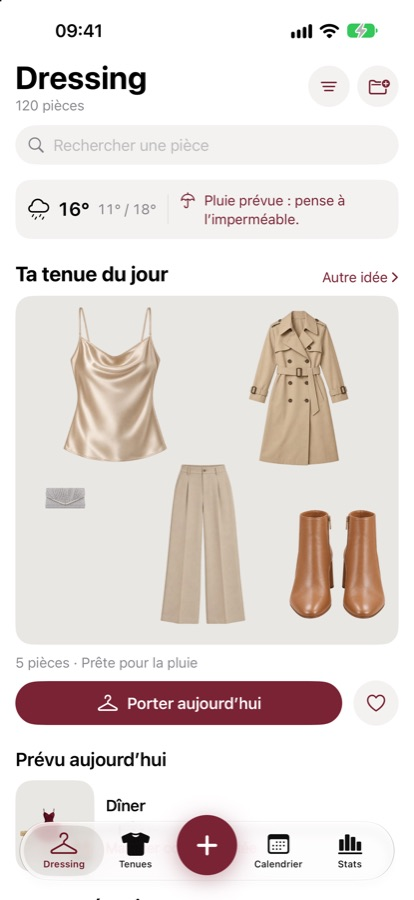
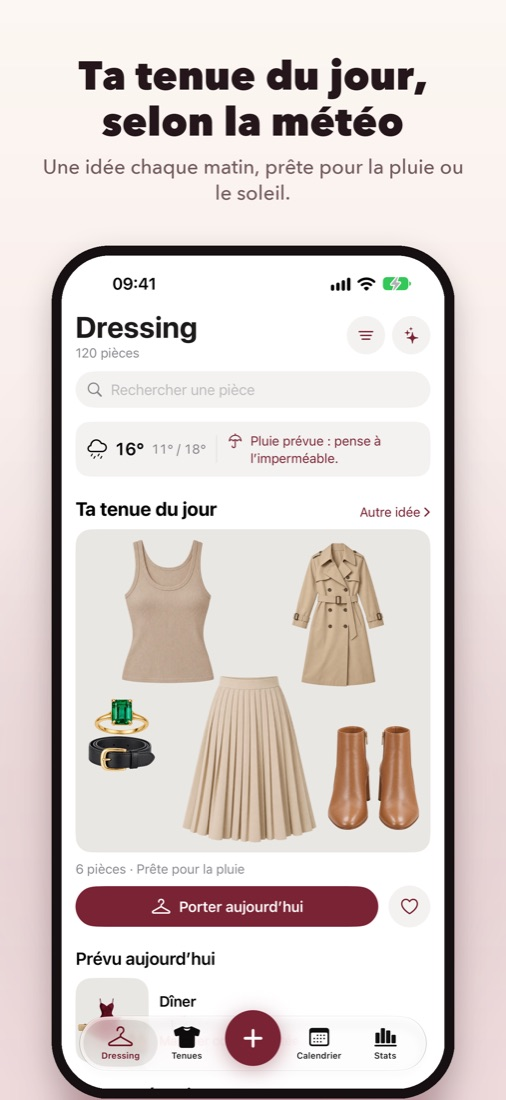
Mettre à jour le site : styliste IA, nouvelles captures, aide et confidentialité

diff --git a/index.html b/index.html
@@ -3,11 +3,11 @@
 <head>
 <meta charset="utf-8">
 <meta name="viewport" content="width=device-width, initial-scale=1, viewport-fit=cover">
-<title>InspyDressing – Ton dressing dans ton iPhone</title>
-<meta name="description" content="InspyDressing range ton dressing dans ton iPhone : tes vêtements en photo, des tenues selon la météo, un calendrier et des stats. Tes données restent sur ton iPhone.">
+<title>InspyDressing – Ton dressing et ta styliste IA</title>
+<meta name="description" content="InspyDressing range ton dressing dans ton iPhone : tes vêtements en photo, une styliste IA qui compose avec tes pièces, des tenues selon la météo. Tes données restent sur ton iPhone.">
 <meta property="og:title" content="InspyDressing">
-<meta property="og:description" content="Ton dressing dans ton iPhone : des tenues selon la météo, sans compte ni publicité.">
-<meta property="og:image" content="https://dombaumont.github.io/inspydressing/img/icone.png">
+<meta property="og:description" content="Ton dressing dans ton iPhone, avec une styliste IA qui compose avec tes vêtements. Sans compte ni publicité.">
+<meta property="og:image" content="https://dombaumont.github.io/inspydressing/img/02-styliste.jpg">
 <link rel="icon" href="img/icone.png">
 <link rel="apple-touch-icon" href="img/apple-touch-icon.png">
 <link rel="stylesheet" href="style.css">
@@ -23,25 +23,44 @@
     <img src="img/icone.png" alt="Icône d’InspyDressing">
     <div>
       <h1>Ton dressing dans ton iPhone.</h1>
-      <p class="lead">Photographie tes vêtements et tes bijoux, compose des tenues selon la météo, planifie ta semaine et redécouvre ce que tu ne portes plus.</p>
+      <p class="lead">Photographie tes vêtements et tes bijoux, laisse ta styliste composer avec tes pièces, planifie ta semaine selon la météo et redécouvre ce que tu ne portes plus.</p>
       <span class="badge">Bientôt sur l’App Store</span>
     </div>
   </header>
 
-  <div class="shots">
-    <img src="img/01-accueil.jpg" alt="Accueil : météo du jour et tenue du jour" loading="lazy">
-    <img src="img/03-composer.jpg" alt="Composer une tenue" loading="lazy">
-    <img src="img/05-tenue.jpg" alt="Une tenue enregistrée, avec partage et photo portée" loading="lazy">
-    <img src="img/08-stats.jpg" alt="Statistiques : pièces les plus portées et à redécouvrir" loading="lazy">
+  <div class="shots" role="list" aria-label="Captures de l’app">
+    <img role="listitem" src="img/01-accueil.jpg" alt="Ta tenue du jour, selon la météo" loading="lazy">
+    <img role="listitem" src="img/02-styliste.jpg" alt="Ta styliste IA avec tes vêtements" loading="lazy">
+    <img role="listitem" src="img/03-composer.jpg" alt="Une autre idée de tenue en secouant l’iPhone" loading="lazy">
+    <img role="listitem" src="img/05-options.jpg" alt="Options de la tenue : couleurs, bijoux, chapeau, sac" loading="lazy">
+    <img role="listitem" src="img/09-stats.jpg" alt="Redécouvre ton dressing : statistiques" loading="lazy">
+    <img role="listitem" src="img/10-fiche.jpg" alt="Chaque pièce en détail" loading="lazy">
   </div>
+
+  <section class="highlight">
+    <div>
+      <span class="tag">Nouveau</span>
+      <h2>Ta styliste IA, avec tes vêtements</h2>
+      <p>Pose-lui une question, joins une photo ou une pièce de ton dressing : elle répond avec ce que tu as vraiment.</p>
+      <ul>
+        <li><strong>En magasin</strong>, photographie un vêtement : elle compose une tenue avec tes pièces, te prévient si tu as déjà quelque chose de très proche, et te dit avec combien de pièces il irait.</li>
+        <li><strong>« Quelles chaussures avec ce pull ? »</strong> : trois propositions tirées de ton dressing, avec la raison de chacune.</li>
+        <li><strong>« Un pantalon noir va avec un haut rouge ? »</strong> : un avis clair, expliqué par tes règles de style.</li>
+      </ul>
+      <p class="small">Apple Intelligence l’aide à comprendre tes questions, sur ton iPhone. Ses réponses viennent de ton dressing et de tes règles : elle n’invente jamais de vêtement.</p>
+    </div>
+    <img src="img/02-styliste.jpg" alt="La styliste propose une tenue autour d’un pull photographié en magasin" loading="lazy">
+  </section>
 
   <h2>Ce que fait InspyDressing</h2>
   <div class="features">
-    <div class="feature"><h3>Tes pièces en photo</h3><p>Détourage automatique, couleurs reconnues, appareil photo guidé. Ou importe un vêtement acheté en ligne depuis la page de la boutique.</p></div>
-    <div class="feature"><h3>Des tenues selon la météo</h3><p>Une tenue du jour adaptée au temps qu’il fait, des options (couleurs, bijoux, chapeau, sac) et une nouvelle idée en secouant l’iPhone.</p></div>
-    <div class="feature"><h3>Calendrier et ressenti</h3><p>Planifie tes tenues avec la météo prévue, note ce que tu as porté et ce que tu en as pensé, ajoute une photo de toi.</p></div>
-    <div class="feature"><h3>Stats et redécouvertes</h3><p>Pièces les plus portées, coût par port, vêtements oubliés à remettre en avant, aide à la revente.</p></div>
-    <div class="feature"><h3>Entretien et rangement</h3><p>Composition et symboles d’entretien de chaque pièce, lieux de rangement (commode, penderie, grenier…).</p></div>
+    <div class="feature"><h3>Tes pièces en photo</h3><p>Appareil photo guidé, détourage automatique, couleurs reconnues. Ou importe un vêtement acheté en ligne depuis la page de la boutique.</p></div>
+    <div class="feature"><h3>Des tenues selon la météo</h3><p>Une tenue du jour adaptée au temps qu’il fait, et une nouvelle idée en secouant l’iPhone.</p></div>
+    <div class="feature"><h3>Tes règles de style</h3><p>Associations de couleurs, imprimés, volumes, chaussures… Une trentaine de règles à activer, désactiver ou ajuster selon ton goût.</p></div>
+    <div class="feature"><h3>Tes envies du jour</h3><p>Couleurs souhaitées ou à éviter, avec ou sans bijoux, chapeau ou sac.</p></div>
+    <div class="feature"><h3>Calendrier et ressenti</h3><p>Planifie tes tenues avec la météo prévue, note ce que tu as porté, ajoute une photo de toi, partage tes looks.</p></div>
+    <div class="feature"><h3>Stats et redécouvertes</h3><p>Pièces les plus portées, coût par port, vêtements oubliés, aide à la revente sur Vinted et ailleurs.</p></div>
+    <div class="feature"><h3>Entretien et rangement</h3><p>Composition et symboles d’entretien de chaque pièce. Tes emplacements (commode, penderie, grenier…) avec leurs tiroirs et étagères.</p></div>
     <div class="feature"><h3>Privé par défaut</h3><p>Pas de compte, pas de publicité, pas de suivi. Tes photos et tes données restent sur ton iPhone.</p></div>
   </div>
 

diff --git a/aide.html b/aide.html
@@ -40,11 +40,33 @@
   </details>
   <details>
     <summary>Comment saisir la composition et l’entretien ?</summary>
-    <p>Ouvre la fiche du vêtement, puis la carte <strong>Composition et entretien</strong>. Tu peux photographier l’étiquette cousue (le texte est lu automatiquement), toucher les symboles d’entretien ou tout saisir à la main.</p>
+    <p>Ouvre la fiche du vêtement, puis la carte <strong>Composition et entretien</strong>. Touche <strong>Scanner</strong> pour photographier l’étiquette cousue (le texte est lu automatiquement), ou <strong>Saisir</strong> pour toucher les symboles d’entretien et tout indiquer à la main.</p>
   </details>
   <details>
     <summary>Comment supprimer un vêtement ?</summary>
     <p>Ouvre sa fiche et touche <strong>Supprimer le vêtement</strong> en bas, ou fais un appui long sur la pièce dans la grille. La fiche et ses photos sont effacées, et la pièce est retirée des tenues et du calendrier. Pour garder son historique, change plutôt son statut (vendu, donné…).</p>
+  </details>
+
+  <h2>Ta styliste IA</h2>
+  <details open>
+    <summary>Comment lui poser une question ?</summary>
+    <p>Touche ✨ en haut de l’accueil ou de l’onglet <strong>Tenues</strong>. Écris ta question, ou touche un des exemples. Avec le bouton <strong>+</strong>, tu peux joindre une photo (appareil photo ou pellicule) ou choisir une pièce de ton dressing.</p>
+  </details>
+  <details>
+    <summary>Qu’est-ce qu’elle sait faire ?</summary>
+    <ul>
+      <li><strong>Compléter une tenue</strong> : « Qu’est-ce qui irait bien avec ça ? », avec une photo ou une pièce. Touche <strong>Autre idée</strong> pour une autre proposition.</li>
+      <li><strong>Proposer une pièce</strong> : « Quelles chaussures vont avec ce pull ? », « Quel sac avec ma robe bordeaux ? ».</li>
+      <li><strong>Donner un avis</strong> : « Est-ce qu’un pantalon noir va avec un haut rouge ? » Elle répond Conseillé, À équilibrer ou Déconseillé, avec ses raisons.</li>
+    </ul>
+  </details>
+  <details>
+    <summary>Et en magasin ?</summary>
+    <p>Photographie le vêtement qui te tente et demande « Qu’est-ce qui irait bien avec ça ? ». Elle compose une tenue avec tes pièces, te prévient si tu as déjà quelque chose de très proche (même type de pièce, couleur presque identique), et t’indique avec combien de pièces de ton dressing il s’accorde. Précise le type de pièce dans ta question (« ce pull », « cette veste ») pour une réponse plus juste.</p>
+  </details>
+  <details>
+    <summary>Utilise-t-elle une intelligence artificielle en ligne ?</summary>
+    <p>Non. Quand Apple Intelligence est disponible, elle l’aide à comprendre ta question, directement sur ton iPhone. Les pièces proposées et les avis viennent toujours de ton dressing et de tes règles de style : elle n’invente jamais de vêtement. Sans Apple Intelligence, formule ta question simplement, comme dans les exemples.</p>
   </details>
 
   <h2>Composer des tenues</h2>
@@ -55,6 +77,10 @@
   <details>
     <summary>Comment choisir les couleurs, avec ou sans bijoux, chapeau ou sac ?</summary>
     <p>Dans l’onglet Tenues, touche le bouton des options (à droite de l’occasion). Choisis les couleurs souhaitées ou à éviter, et pour les bijoux, le chapeau et le sac : Auto, Avec ou Sans. Une nouvelle tenue est proposée dès que tu fermes les options.</p>
+  </details>
+  <details>
+    <summary>Comment régler les règles de style ?</summary>
+    <p>Dans les options de l’onglet Tenues, ou dans les Réglages : <strong>Règles de style</strong>. Chaque règle (associations de couleurs, imprimés, volumes, chaussures, météo…) peut être <strong>Conseillée</strong>, <strong>À équilibrer</strong>, <strong>Déconseillée selon le contexte</strong> ou <strong>Désactivée</strong>. L’interrupteur en haut les coupe toutes d’un coup, sans perdre tes réglages. Le détail d’une tenue indique les règles qui s’y appliquent.</p>
   </details>
   <details>
     <summary>Pourquoi la tenue ne propose pas trois hauts ?</summary>
@@ -74,11 +100,19 @@
   <h2>Tes données</h2>
   <details>
     <summary>Comment sauvegarder mon dressing ?</summary>
-    <p>Ouvre les <strong>Réglages</strong> (roue dentée de l’onglet Stats) › <strong>Sauvegarde</strong>, puis enregistre l’archive dans Fichiers ou iCloud Drive. Pour la restaurer, choisis le fichier depuis le même écran : les éléments sont ajoutés sans doublon.</p>
+    <p>Ouvre les <strong>Réglages</strong> (roue dentée de l’onglet Stats) › <strong>Sauvegarde</strong> › <strong>Exporter tout</strong>. L’archive est préparée, puis le menu de partage s’ouvre : choisis <strong>Enregistrer dans Fichiers</strong> (iCloud Drive par exemple). L’app confirme quand c’est enregistré. Pour la restaurer, choisis le fichier depuis le même écran : les éléments sont ajoutés sans doublon.</p>
   </details>
   <details>
     <summary>Comment indiquer où sont rangés mes vêtements ?</summary>
-    <p>Réglages › <strong>Lieux de rangement</strong> : crée tes lieux (commode, penderie, grenier…) et leurs emplacements (1er tiroir, étagère…). Tu peux choisir un rangement par défaut pour chaque type de vêtement ; il est proposé automatiquement quand tu ajoutes une pièce.</p>
+    <p>En bas de l’accueil, <strong>Mes emplacements</strong> montre tes lieux (dressing, commode, penderie…). Dans un lieu, le bouton <strong>…</strong> permet d’ajouter des vêtements (ceux qui n’ont pas encore d’emplacement, ou ceux rangés ailleurs), d’ajouter un emplacement (1er tiroir, étagère… autant que tu veux), de renommer ou de supprimer le lieu. Un appui long sur un emplacement le renomme ou le supprime. <strong>Gérer</strong> ouvre la liste complète, où tu peux aussi choisir un rangement par défaut pour chaque type de vêtement.</p>
+  </details>
+  <details>
+    <summary>Comment organiser mes catégories ?</summary>
+    <p>Sur l’accueil, <strong>Mes catégories</strong> › <strong>Tout voir</strong> : crée une catégorie, ou touche <strong>Modifier l’ordre</strong> et fais glisser les catégories. Tu peux aussi déplacer un vêtement d’une catégorie à l’autre par un appui long.</p>
+  </details>
+  <details>
+    <summary>Comment donner un nom à mon dressing ?</summary>
+    <p>Touche le titre en haut de l’accueil, ou va dans Réglages › Nom de ton dressing. Le prénom donné au premier lancement sert aussi à nommer ta styliste.</p>
   </details>
   <details>
     <summary>Mes données sont-elles envoyées quelque part ?</summary>

diff --git a/style.css b/style.css
@@ -63,8 +63,26 @@ footer p { margin: 4px 0; }
   display: inline-block; margin-top: 18px; padding: 10px 18px; border-radius: 999px;
   background: var(--accent); color: var(--accent-ink); font-weight: 600; text-decoration: none;
 }
-.shots { display: grid; grid-template-columns: repeat(4, minmax(0, 1fr)); gap: 12px; margin: 36px 0 8px; }
-.shots img { width: 100%; max-width: 100%; border-radius: 18px; border: 1px solid var(--line); background: var(--studio); }
+.shots {
+  display: grid; grid-auto-flow: column; grid-auto-columns: minmax(200px, 1fr);
+  gap: 14px; margin: 36px 0 8px; overflow-x: auto; scroll-snap-type: x mandatory;
+  padding-bottom: 8px; -webkit-overflow-scrolling: touch;
+}
+.shots img {
+  width: 100%; max-width: 100%; border-radius: 20px; scroll-snap-align: start;
+  box-shadow: 0 6px 18px rgba(122, 35, 52, 0.12);
+}
+.highlight {
+  display: grid; grid-template-columns: minmax(0, 1fr) minmax(0, 260px); gap: 28px; align-items: center;
+  background: var(--soft); border-radius: 24px; padding: 26px; margin-top: 40px;
+}
+.highlight h2 { margin-top: 0; }
+.highlight img { width: 100%; max-width: 100%; border-radius: 20px; box-shadow: 0 6px 18px rgba(122, 35, 52, 0.15); }
+.highlight ul { margin: 10px 0 0; padding-left: 20px; }
+.tag {
+  display: inline-block; font-size: 0.78rem; font-weight: 700; letter-spacing: 0.06em; text-transform: uppercase;
+  color: var(--accent); margin-bottom: 6px;
+}
 .features { display: grid; grid-template-columns: repeat(2, minmax(0, 1fr)); gap: 14px; margin-top: 18px; }
 .feature { background: var(--surface); border: 1px solid var(--line); border-radius: 16px; padding: 16px 18px; min-width: 0; }
 .feature h3 { margin: 0 0 4px; }
@@ -75,7 +93,9 @@ details p, details ul { margin: 8px 0 0; }
 
 @media (max-width: 640px) {
   .hero { grid-template-columns: 1fr; }
-  .shots { grid-template-columns: repeat(2, minmax(0, 1fr)); }
+  .shots { grid-auto-columns: 62%; }
+  .highlight { grid-template-columns: 1fr; padding: 20px; }
+  .highlight img { max-width: 260px; justify-self: center; }
   .features { grid-template-columns: 1fr; }
   nav.top .links { margin-left: 0; width: 100%; }
 }

diff --git a/confidentialite.html b/confidentialite.html
@@ -67,6 +67,7 @@
   </table>
   </div>
   <p>La reconnaissance des vêtements, des couleurs et des étiquettes, ainsi que les suggestions de tenues, fonctionnent <strong>entièrement sur ton iPhone</strong>. Quand Apple Intelligence est utilisée, elle l’est sur l’appareil : tes photos et tes demandes ne sont pas envoyées à un service d’intelligence artificielle.</p>
+  <p><strong>Styliste IA</strong> : les photos que tu lui montres (par exemple un vêtement en magasin) sont analysées sur ton iPhone pour en lire les couleurs et le type, puis ne sont pas ajoutées à ton dressing. Tes questions et ses réponses ne quittent pas l’appareil.</p>
   <p>La fonction « Recherche visuelle » d’iOS, que tu peux ouvrir sur la photo d’une étiquette, est un service d’Apple soumis à la <a href="https://www.apple.com/fr/legal/privacy/">politique de confidentialité d’Apple</a>.</p>
 
   <h2>4. Appareil photo, photos et position</h2>
